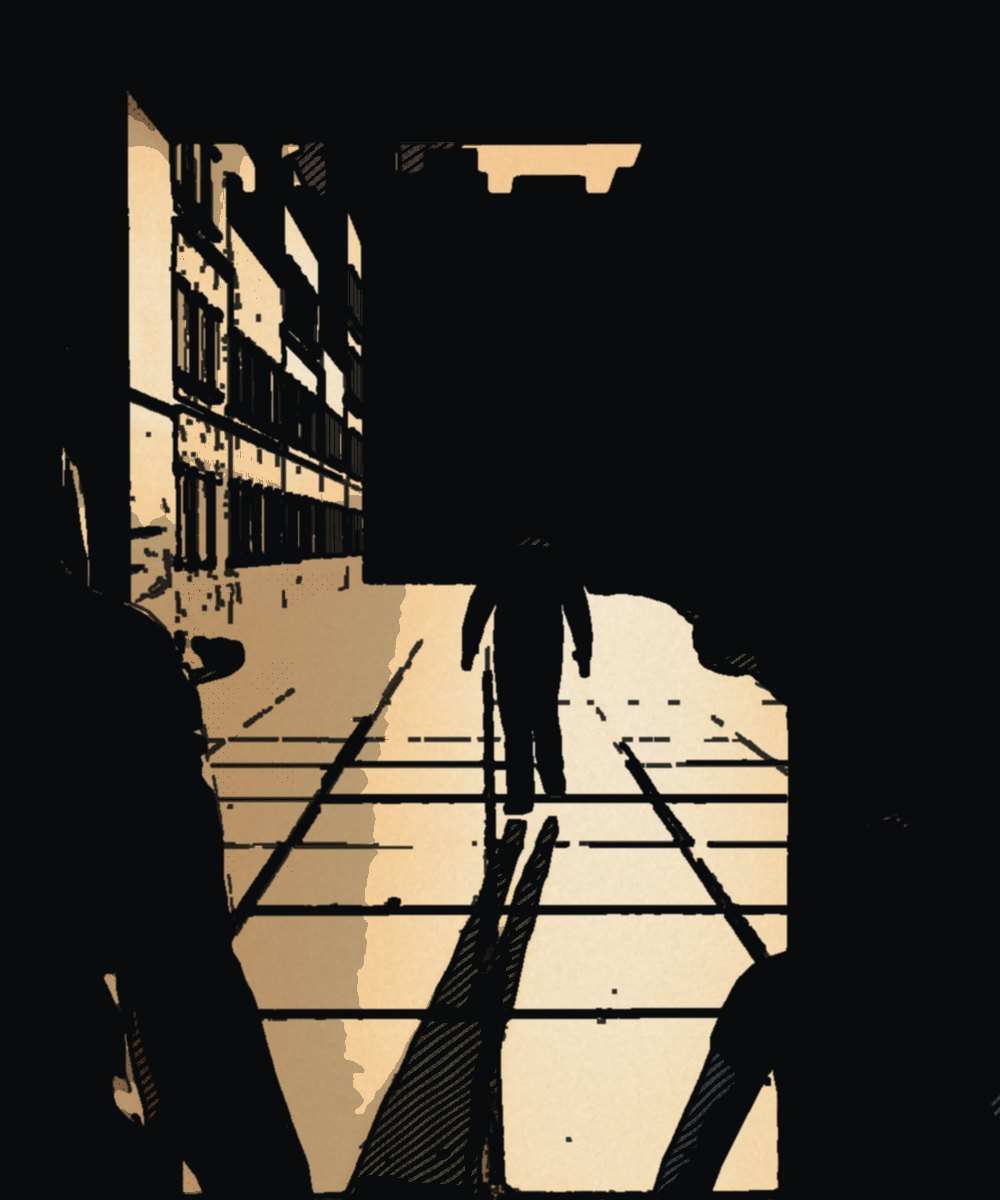
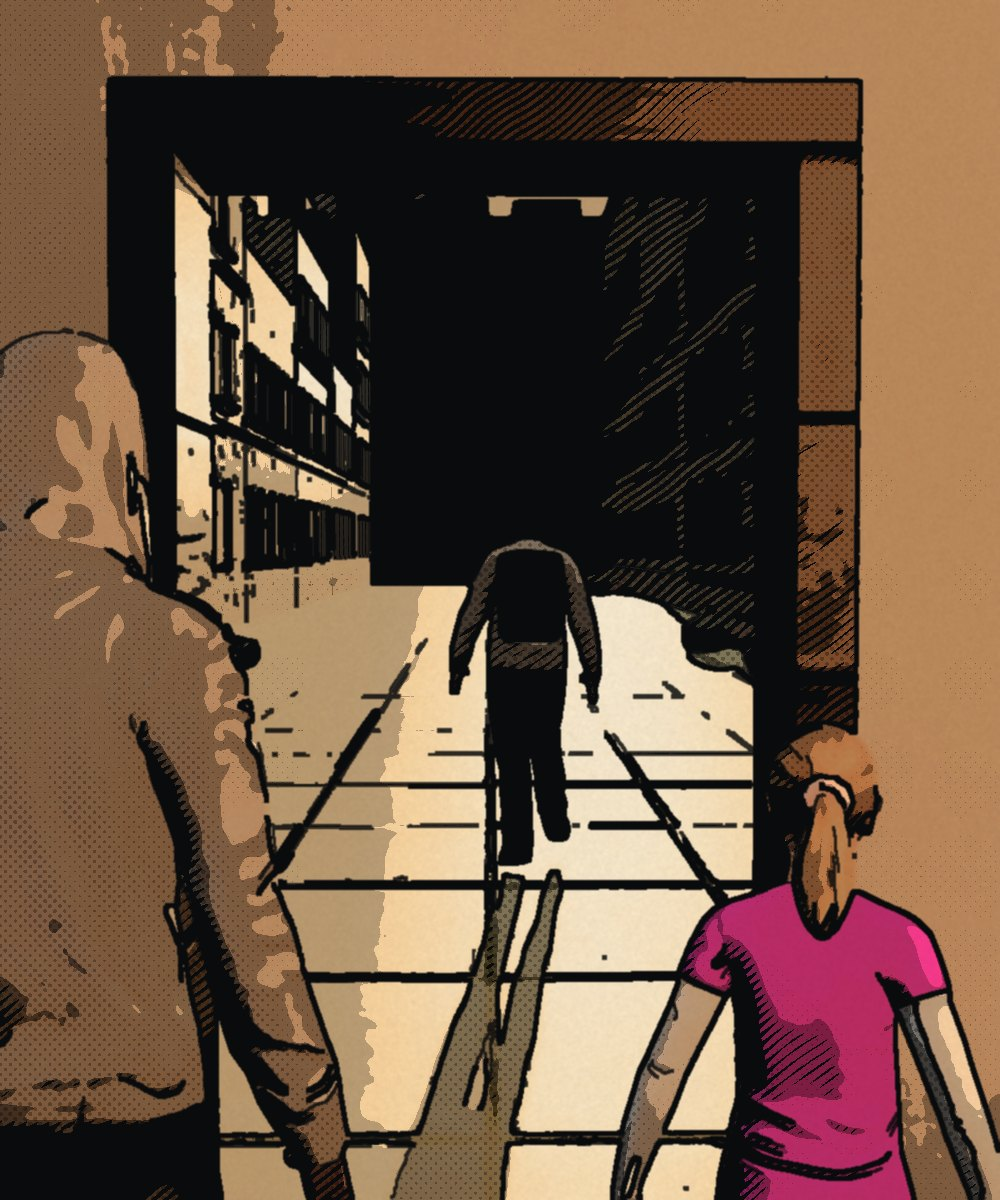
天亮之前：背景故事漫畫調亮、狙擊手改趴姿持槍、水桶、對話泡泡、媽媽改中景與一般衣著
Claude-Session: https://claude.ai/code/session_012Lv6gWQAPaAvqZzYnHc8ne

diff --git a/night/intro/index.html b/night/intro/index.html
@@ -21,6 +21,11 @@
   .cap.w { background: #fffaf0; }
   .cap.k { background: #0d0d0f; color: #fffaf0; }
   .cap.on { opacity: 1; transform: scale(1); }
+  .cap.say { background: #fffaf0; border-radius: 46% / 50%; padding: 16px 26px; text-align: center; box-shadow: none; white-space: nowrap; }
+  .cap.say::after { content: ''; position: absolute; bottom: -26px; width: 0; height: 0; border-style: solid; }
+  .cap.say.tl::after { left: 26%; border-width: 26px 6px 0 20px; border-color: #0d0d0f transparent transparent transparent; }
+  .cap.say.tr::after { right: 26%; border-width: 26px 20px 0 6px; border-color: #0d0d0f transparent transparent transparent; }
+  .cap { white-space: nowrap; }
   .sfx { position: absolute; font-weight: 900; font-size: clamp(40px, 8dvh, 70px); color: #d8261c; -webkit-text-stroke: 8px #0d0d0f; paint-order: stroke fill; color: #f7d23c; transform: rotate(-9deg) scale(.3); opacity: 0; transition: transform .25s cubic-bezier(.2,2,.4,1), opacity .2s; z-index: 4; letter-spacing: 2px; }
   .sfx.on { opacity: 1; transform: rotate(-9deg) scale(1); }
   #ttl { position: absolute; inset: 0; display: grid; place-items: center; text-align: center; }
@@ -30,7 +35,7 @@
   button:active { transform: translate(3px, 3px); box-shadow: 2px 2px 0 #0d0d0f; }
   #skip { position: fixed; right: 12px; top: 12px; margin: 0; font-size: 15px; padding: 6px 12px; box-shadow: 3px 3px 0 #0d0d0f; z-index: 9; }
   #bar { position: fixed; left: 0; bottom: 0; height: 6px; background: #d8261c; width: 0; z-index: 9; }
-  #pg { position: fixed; left: 14px; top: 16px; font-weight: 900; font-size: 15px; z-index: 9; opacity: .7; }
+  #pg { position: fixed; left: 14px; top: 6px; font-weight: 900; font-size: 15px; z-index: 9; opacity: .7; }
 </style>
 </head>
 <body>
@@ -43,11 +48,11 @@
 const PAGES = [
   { t: 14, panels: [['s1.jpg', 3, 9, 94, 50, -0.6, 0, '50% 30%'], ['p1.jpg', 50, 55, 46, 30, 2.5, 5.2, '50% 50%']], caps: [[0.8, '港灣市。戰爭的第二年。', 5, 5], [3.0, '敵軍的裝甲車堵住了每一條出城的路。', 50, 3, 'w'], [7.0, '整座城被圍死了。<br>沒有人進得來，<br>也沒有人出得去。', 64, 3], [10.5, '那是 37 天前的事。', 88, 30, 'k']] },
   { t: 13, panels: [['s2.jpg', 3, 12, 94, 44, 0.6, 0, '70% 60%']], caps: [[0.8, '先是停電。', 7, 5], [3.0, '然後，水龍頭再也流不出一滴水。', 53, 8, 'w'], [6.2, '每天清晨，人們提著桶子，<br>排隊等那一口還能出水的井。', 64, 4], [9.8, '糧食一天比一天少。藥，早就沒有了。', 82, 8, 'k']] },
-  { t: 16, panels: [['s3.jpg', 3, 8, 60, 52, -0.8, 0, '40% 70%'], ['s4.jpg', 20, 56, 77, 30, 1, 6.0, '30% 60%']], sfx: [[5.6, '砰', 40, 62]], caps: [[0.8, '街口的<br>高樓上，<br>有狙擊手。', 12, 64], [3.2, '他挑的，<br>是提水的人。', 30, 64, 'w'], [8.6, '沒有人知道，扣扳機的是敵軍——', 87, 4, 'k'], [11.2, '還是我們自己的人。', 93, 44, 'k']] },
+  { t: 16, panels: [['s3.jpg', 3, 8, 60, 46, -0.8, 0, '50% 45%'], ['s4.jpg', 20, 56, 77, 30, 1, 6.0, '30% 60%']], sfx: [[5.6, '砰', 40, 62]], caps: [[0.8, '街口的<br>高樓上，<br>有狙擊手。', 12, 64], [3.2, '他挑的，<br>是提水的人。', 31, 62, 'w'], [8.6, '沒有人知道，扣扳機的是敵軍——', 87, 4, 'k'], [11.2, '還是我們自己的人。', 93, 44, 'k']] },
   { t: 15, panels: [['s5.jpg', 4, 9, 92, 62, 0.5, 0, '35% 40%']], caps: [[0.8, '夜裡，有人挨家挨戶搜刮。', 5, 5], [4.0, '有的穿著敵軍的制服。<br>有的，穿著我軍的制服。', 62, 20, 'w'], [9.0, '仗打久了，<br>人有時候就不再是人。', 80, 8, 'k']] },
-  { t: 14, panels: [['s6.jpg', 8, 8, 84, 64, -0.6, 0, '55% 60%']], caps: [[0.8, '被圍的第 22 天。', 5, 5], [3.2, '「我去找點吃的。<br>天亮前回來。」', 30, 46, 'w'], [8.6, '爸爸沒有回來。', 78, 34, 'k']] },
-  { t: 14, panels: [['s7.jpg', 10, 9, 80, 60, 0.8, 0, '50% 35%']], caps: [[0.8, '媽媽等了五天。', 5, 5], [3.4, '「把門鎖好。<br>除了我，誰來都不要開。」', 58, 6, 'w'], [8.8, '第 27 天，她出門去找他。<br>她也沒有回來。', 80, 16, 'k']] },
-  { t: 18, panels: [['s8.jpg', 3, 12, 94, 36, -0.5, 0, '40% 55%'], ['s9.jpg', 30, 46, 56, 44, 1.2, 11.0, '50% 40%']], caps: [[0.8, '今天是第 37 天。<br>媽媽離開後的第十天。', 3, 3], [4.2, '家裡只剩下你，和十歲的妹妹。', 40, 20, 'w'], [7.6, '昨晚，她開始發燒。', 50, 3], [13.6, '家裡沒有藥。<br>今晚，你得出門。', 84, 3, 'k']] },
+  { t: 14, panels: [['s6.jpg', 8, 8, 84, 64, -0.6, 0, '55% 60%']], caps: [[0.8, '被圍的第 22 天。', 5, 5], [3.2, '我去找點吃的。<br>天亮前回來。', 20, 44, 'say tl'], [8.6, '爸爸沒有回來。', 78, 34, 'k']] },
+  { t: 14, panels: [['s7.jpg', 5, 9, 90, 62, 0.8, 0, '60% 45%']], caps: [[0.8, '媽媽等了五天。', 5, 5], [3.4, '把門鎖好。除了我，<br>誰來都不要開。', 13, 8, 'say tr'], [8.8, '第 27 天，她出門去找他。<br>她也沒有回來。', 80, 16, 'k']] },
+  { t: 18, panels: [['s8.jpg', 3, 13, 94, 34, -0.5, 0, '40% 55%'], ['s9.jpg', 30, 46, 56, 44, 1.2, 11.0, '50% 40%']], caps: [[0.8, '今天是第 37 天。<br>媽媽離開後的第十天。', 5, 8], [4.2, '家裡只剩下你，和十歲的妹妹。', 40, 20, 'w'], [7.6, '昨晚，她開始發燒。', 50, 3], [13.6, '家裡沒有藥。<br>今晚，你得出門。', 84, 3, 'k']] },
 ];
 const stage = document.getElementById('stage'), bar = document.getElementById('bar'), pg = document.getElementById('pg');
 const TOTAL = PAGES.reduce((a, p) => a + p.t, 0);
